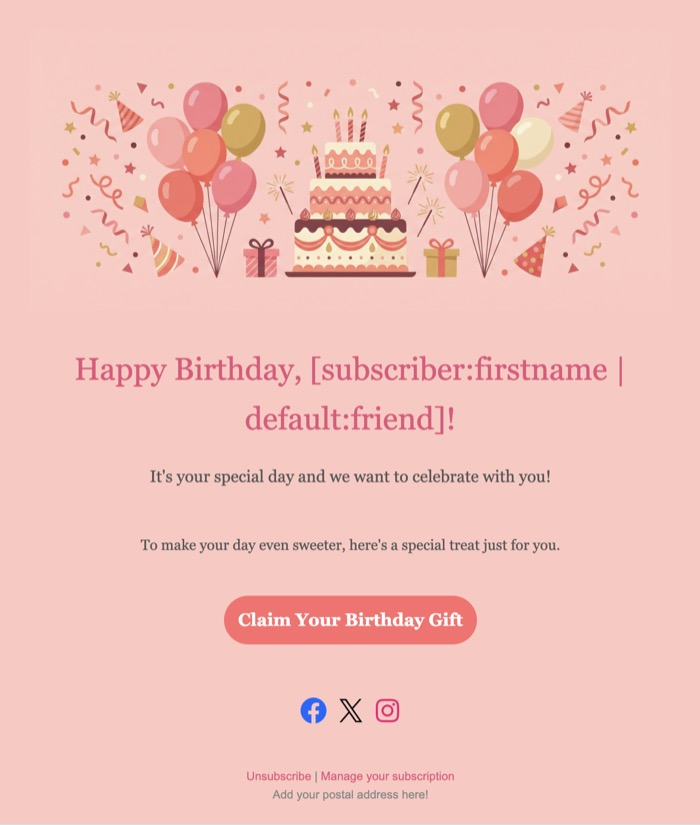
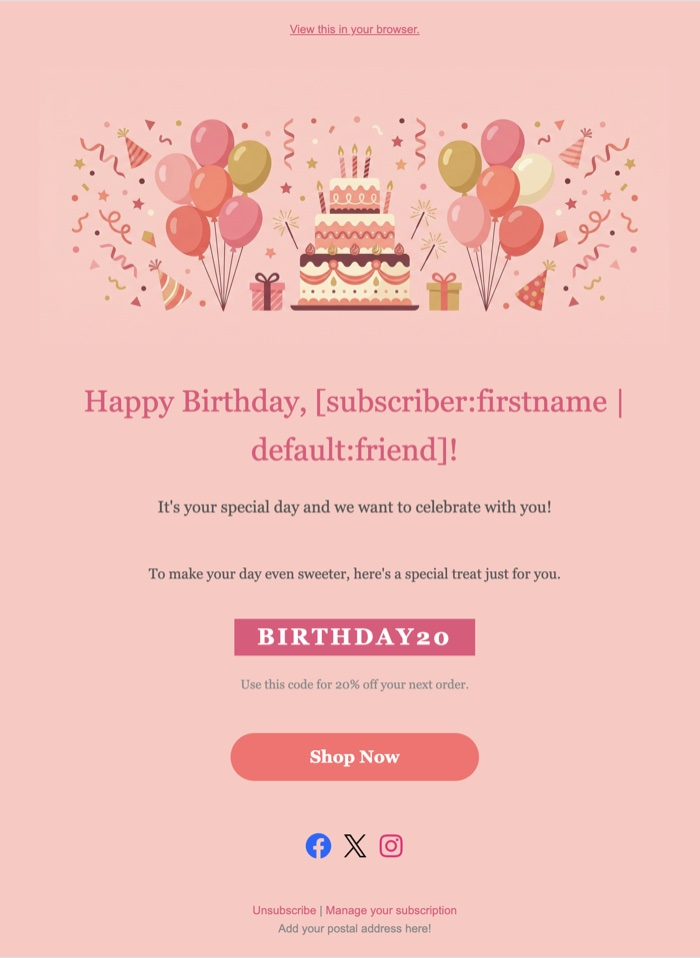
Add header, coupon code, and homepage link to birthday template
Add "View this in your browser" header at the top.
Add styled coupon code block (BIRTHDAY20) with description.
Change CTA button to "Shop Now" linking to [site:homepage_url].
Update thumbnail with the new template preview.

STOMAIL-7960

diff --git a/mailpoet/lib/Config/PopulatorData/Templates/BirthdayCelebration.php b/mailpoet/lib/Config/PopulatorData/Templates/BirthdayCelebration.php
@@ -54,6 +54,25 @@ class BirthdayCelebration {
                 ],
                 'blocks' => [
                   [
+                    'type' => 'header',
+                    'text' => '<p><a href="[link:newsletter_view_in_browser_url]">' . __("View this in your browser.", 'mailpoet') . '</a></p>',
+                    'styles' => [
+                      'block' => [
+                        'backgroundColor' => 'transparent',
+                      ],
+                      'text' => [
+                        'fontColor' => '#888888',
+                        'fontFamily' => 'Arial',
+                        'fontSize' => '12px',
+                        'textAlign' => 'center',
+                      ],
+                      'link' => [
+                        'fontColor' => '#e6527a',
+                        'textDecoration' => 'underline',
+                      ],
+                    ],
+                  ],
+                  [
                     'type' => 'spacer',
                     'styles' => [
                       'block' => [
@@ -111,14 +130,31 @@ class BirthdayCelebration {
                     'styles' => [
                       'block' => [
                         'backgroundColor' => 'transparent',
+                        'height' => '15px',
+                      ],
+                    ],
+                  ],
+                  [
+                    'type' => 'text',
+                    'text' => '<p style="text-align: center;"><span style="font-size: 24px; font-weight: bold; letter-spacing: 3px; background-color: #e6527a; color: #ffffff; padding: 12px 24px; border-radius: 5px;">' . __("BIRTHDAY20", 'mailpoet') . '</span></p>',
+                  ],
+                  [
+                    'type' => 'text',
+                    'text' => '<p style="text-align: center; font-size: 13px;"><span style="color: #888888;">' . __("Use this code for 20% off your next order.", 'mailpoet') . '</span></p>',
+                  ],
+                  [
+                    'type' => 'spacer',
+                    'styles' => [
+                      'block' => [
+                        'backgroundColor' => 'transparent',
                         'height' => '20px',
                       ],
                     ],
                   ],
                   [
                     'type' => 'button',
-                    'text' => __("Claim Your Birthday Gift", 'mailpoet'),
-                    'url' => '',
+                    'text' => __("Shop Now", 'mailpoet'),
+                    'url' => '[site:homepage_url]',
                     'styles' => [
                       'block' => [
                         'backgroundColor' => '#ff6b6b',
